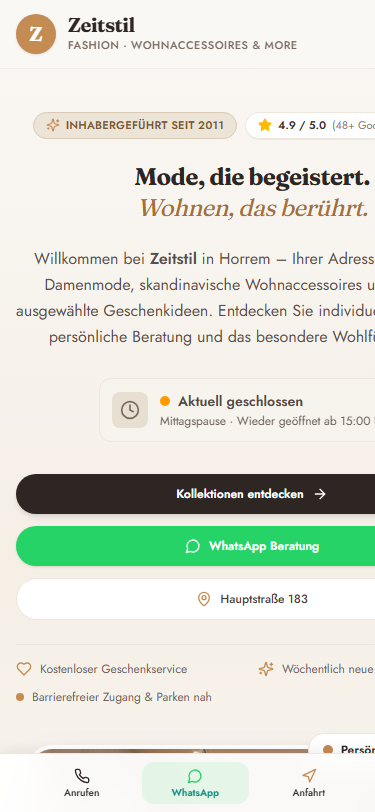
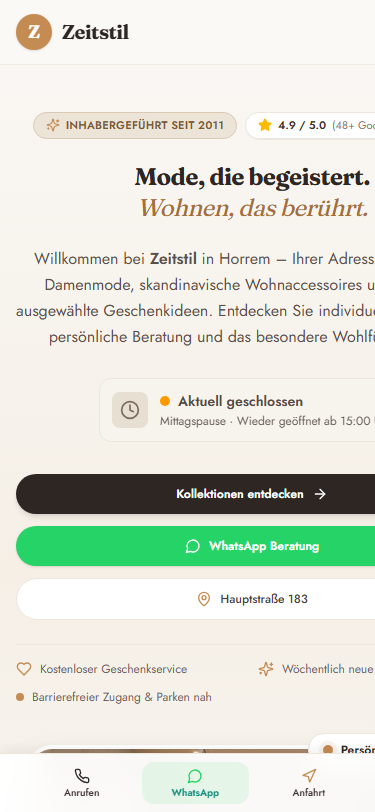
Fix navbar text wrapping and badge overlap on owner portrait

Changed region(s): [[0.0293, 0.0, 0.792, 0.0924]]

diff --git a/src/components/Navbar.tsx b/src/components/Navbar.tsx
@@ -20,11 +20,11 @@ export default function Navbar({ onOpenContact }: NavbarProps) {
 
   const navLinks = [
     { label: 'Kollektionen', href: '#kollektionen' },
-    { label: 'Über Zeitstil', href: '#ueber-uns' },
+    { label: 'Über uns', href: '#ueber-uns' },
     { label: 'Einblicke', href: '#galerie' },
-    { label: 'Kundenstimmen', href: '#bewertungen' },
+    { label: 'Bewertungen', href: '#bewertungen' },
     { label: 'FAQ', href: '#faq' },
-    { label: 'Anfahrt & Zeiten', href: '#kontakt' },
+    { label: 'Kontakt', href: '#kontakt' },
   ];
 
   const handleNavClick = (href: string) => {
@@ -40,35 +40,35 @@ export default function Navbar({ onOpenContact }: NavbarProps) {
       <header
         className={`fixed top-0 left-0 right-0 z-40 transition-all duration-300 ${
           scrolled
-            ? 'bg-[#faf8f5]/95 backdrop-blur-md shadow-sm border-b border-[#ede6dc] py-2.5'
-            : 'bg-[#faf8f5]/80 backdrop-blur-sm py-3.5 border-b border-[#ede6dc]/60'
+            ? 'bg-[#faf8f5]/95 backdrop-blur-md shadow-sm border-b border-[#ede6dc] py-2'
+            : 'bg-[#faf8f5]/90 backdrop-blur-sm py-3 border-b border-[#ede6dc]/70'
         }`}
       >
         <div className="max-w-7xl mx-auto px-4 sm:px-6 lg:px-8">
-          <div className="flex items-center justify-between gap-4">
+          <div className="flex items-center justify-between gap-3 xl:gap-6">
             
-            {/* Brand Logo & Tagline */}
-            <a href="#" className="flex items-center gap-3 group">
-              <div className="w-10 h-10 rounded-full bg-[#c48b52] text-white flex items-center justify-center font-serif text-xl font-bold shadow-sm transition-transform duration-300 group-hover:scale-105">
+            {/* Brand Logo & Name */}
+            <a href="#" className="flex items-center gap-2.5 sm:gap-3 group shrink-0">
+              <div className="w-9 h-9 sm:w-10 sm:h-10 rounded-full bg-[#c48b52] text-white flex items-center justify-center font-serif text-lg sm:text-xl font-bold shadow-sm transition-transform duration-300 group-hover:scale-105 shrink-0">
                 Z
               </div>
               <div className="flex flex-col">
-                <span className="font-serif text-xl sm:text-2xl font-bold tracking-tight text-[#2d2623] leading-none">
+                <span className="font-serif text-xl sm:text-2xl font-bold tracking-tight text-[#2d2623] leading-none whitespace-nowrap">
                   Zeitstil
                 </span>
-                <span className="text-[11px] tracking-wider uppercase text-[#7a6a5e] font-medium mt-0.5">
-                  Fashion · Wohnaccessoires &amp; more
+                <span className="text-[10px] sm:text-[11px] tracking-wider uppercase text-[#7a6a5e] font-medium mt-0.5 whitespace-nowrap hidden sm:inline-block">
+                  Fashion · Wohnen · Geschenke
                 </span>
               </div>
             </a>
 
             {/* Desktop Navigation Links */}
-            <nav className="hidden lg:flex items-center gap-6">
+            <nav className="hidden lg:flex items-center gap-4 xl:gap-6">
               {navLinks.map((link) => (
                 <button
                   key={link.label}
                   onClick={() => handleNavClick(link.href)}
-                  className="text-sm font-medium text-[#5a504a] hover:text-[#c48b52] transition-colors cursor-pointer py-1"
+                  className="text-xs xl:text-sm font-medium text-[#5a504a] hover:text-[#c48b52] transition-colors cursor-pointer py-1 whitespace-nowrap"
                 >
                   {link.label}
                 </button>
@@ -76,31 +76,31 @@ export default function Navbar({ onOpenContact }: NavbarProps) {
             </nav>
 
             {/* Right Status & Action Buttons */}
-            <div className="hidden sm:flex items-center gap-3">
+            <div className="hidden sm:flex items-center gap-2 xl:gap-2.5 shrink-0">
               <OpeningStatus compact />
 
               <a
                 href="https://wa.me/4915222739532?text=Hallo%20Frau%20Dauendorffer,%20ich%20habe%20eine%20Frage%20zu%20einem%20Artikel%20bei%20Zeitstil."
                 target="_blank"
                 rel="noopener noreferrer"
-                className="inline-flex items-center gap-1.5 px-3 py-1.5 rounded-full text-xs font-semibold bg-[#25D366]/10 text-[#128C7E] hover:bg-[#25D366]/20 transition-all border border-[#25D366]/25"
+                className="inline-flex items-center gap-1.5 px-3 py-1.5 rounded-full text-xs font-semibold bg-[#25D366]/10 text-[#128C7E] hover:bg-[#25D366]/20 transition-all border border-[#25D366]/25 whitespace-nowrap"
                 title="Per WhatsApp schreiben"
               >
-                <MessageCircle className="w-3.5 h-3.5" />
+                <MessageCircle className="w-3.5 h-3.5 shrink-0" />
                 <span>WhatsApp</span>
               </a>
 
               <a
                 href="tel:+4922739915676"
-                className="inline-flex items-center gap-1.5 px-3.5 py-1.5 rounded-full text-xs font-medium bg-[#2d2623] text-white hover:bg-[#c48b52] transition-colors shadow-sm"
+                className="inline-flex items-center gap-1.5 px-3.5 py-1.5 rounded-full text-xs font-medium bg-[#2d2623] text-white hover:bg-[#c48b52] transition-colors shadow-2xs whitespace-nowrap"
               >
-                <Phone className="w-3.5 h-3.5" />
+                <Phone className="w-3.5 h-3.5 shrink-0" />
                 <span>02273 9915676</span>
               </a>
             </div>
 
             {/* Mobile Hamburger Toggle */}
-            <div className="flex items-center gap-2 lg:hidden">
+            <div className="flex items-center gap-1.5 lg:hidden">
               <a
                 href="tel:+4922739915676"
                 className="p-2 rounded-full bg-[#f0eae1] text-[#2d2623] hover:text-[#c48b52] transition-colors"
@@ -196,7 +196,7 @@ export default function Navbar({ onOpenContact }: NavbarProps) {
               <button
                 onClick={() => {
                   setMobileMenuOpen(false);
-                  onOpenContact();
+                  onOpenContact('Allgemeine Frage');
                 }}
                 className="w-full py-2 text-xs text-center text-[#7a6a5e] underline underline-offset-2"
               >

diff --git a/src/components/OpeningStatus.tsx b/src/components/OpeningStatus.tsx
@@ -5,6 +5,7 @@ interface OpeningStatusInfo {
   isOpen: boolean;
   message: string;
   nextOpeningText: string;
+  compactText: string;
 }
 
 export function getOpeningStatus(): OpeningStatusInfo {
@@ -21,46 +22,59 @@ export function getOpeningStatus(): OpeningStatusInfo {
   let isOpen = false;
   let message = 'Aktuell geschlossen';
   let nextOpeningText = '';
+  let compactText = 'Geschlossen';
 
   if (day === 1) { // Montag
     if (currentMinutes >= 900 && currentMinutes < 1080) {
       isOpen = true;
       message = 'Jetzt geöffnet · bis 18:00 Uhr';
+      compactText = 'Geöffnet bis 18:00';
     } else if (currentMinutes < 900) {
       nextOpeningText = 'Öffnet heute um 15:00 Uhr';
+      compactText = 'Öffnet 15:00 Uhr';
     } else {
       nextOpeningText = 'Öffnet Di. um 10:00 Uhr';
+      compactText = 'Öffnet Di. 10:00';
     }
   } else if (day === 2 || day === 4 || day === 5) { // Di, Do, Fr
     if (currentMinutes >= 600 && currentMinutes < 780) {
       isOpen = true;
       message = 'Jetzt geöffnet · bis 13:00 Uhr (wieder ab 15:00)';
+      compactText = 'Geöffnet bis 13:00';
     } else if (currentMinutes >= 780 && currentMinutes < 900) {
       nextOpeningText = 'Mittagspause · Wieder geöffnet ab 15:00 Uhr';
+      compactText = 'Pause · öffnet 15:00';
     } else if (currentMinutes >= 900 && currentMinutes < 1080) {
       isOpen = true;
       message = 'Jetzt geöffnet · bis 18:00 Uhr';
+      compactText = 'Geöffnet bis 18:00';
     } else if (currentMinutes < 600) {
       nextOpeningText = 'Öffnet heute um 10:00 Uhr';
+      compactText = 'Öffnet 10:00 Uhr';
     } else {
       const nextDayName = day === 5 ? 'Sa.' : (day === 2 ? 'Mi.' : 'Fr.');
       nextOpeningText = `Öffnet ${nextDayName} um 10:00 Uhr`;
+      compactText = `Öffnet ${nextDayName} 10:00`;
     }
   } else if (day === 3 || day === 6) { // Mi, Sa
     if (currentMinutes >= 600 && currentMinutes < 780) {
       isOpen = true;
       message = 'Jetzt geöffnet · bis 13:00 Uhr';
+      compactText = 'Geöffnet bis 13:00';
     } else if (currentMinutes < 600) {
       nextOpeningText = 'Öffnet heute um 10:00 Uhr';
+      compactText = 'Öffnet 10:00 Uhr';
     } else {
-      const nextDayName = day === 3 ? 'Do. um 10:00 Uhr' : 'Mo. um 15:00 Uhr';
-      nextOpeningText = `Öffnet ${nextDayName}`;
+      const nextDayName = day === 3 ? 'Do. 10:00' : 'Mo. 15:00';
+      nextOpeningText = day === 3 ? 'Öffnet Do. um 10:00 Uhr' : 'Öffnet Mo. um 15:00 Uhr';
+      compactText = `Öffnet ${nextDayName}`;
     }
   } else { // Sonntag
     nextOpeningText = 'Öffnet Mo. um 15:00 Uhr';
+    compactText = 'Öffnet Mo. 15:00';
   }
 
-  return { isOpen, message, nextOpeningText };
+  return { isOpen, message, nextOpeningText, compactText };
 }
 
 export default function OpeningStatus({ compact = false }: { compact?: boolean }) {
@@ -75,8 +89,8 @@ export default function OpeningStatus({ compact = false }: { compact?: boolean }
 
   if (compact) {
     return (
-      <div className="inline-flex items-center gap-2 px-3 py-1 rounded-full text-xs font-medium border bg-white/80 backdrop-blur-sm border-[#ede6dc] shadow-sm">
-        <span className="relative flex h-2 w-2">
+      <div className="inline-flex items-center gap-2 px-3 py-1.5 rounded-full text-xs font-medium border bg-white/90 backdrop-blur-sm border-[#ede6dc] shadow-2xs whitespace-nowrap shrink-0">
+        <span className="relative flex h-2 w-2 shrink-0">
           {status.isOpen ? (
             <>
               <span className="animate-ping absolute inline-flex h-full w-full rounded-full bg-emerald-400 opacity-75"></span>
@@ -86,8 +100,8 @@ export default function OpeningStatus({ compact = false }: { compact?: boolean }
             <span className="relative inline-flex rounded-full h-2 w-2 bg-amber-500"></span>
           )}
         </span>
-        <span className={status.isOpen ? 'text-emerald-800' : 'text-[#6e645e]'}>
-          {status.isOpen ? status.message : (status.nextOpeningText || 'Aktuell geschlossen')}
+        <span className={`whitespace-nowrap ${status.isOpen ? 'text-emerald-800 font-semibold' : 'text-[#5e534d]'}`}>
+          {status.compactText}
         </span>
       </div>
     );
@@ -99,12 +113,12 @@ export default function OpeningStatus({ compact = false }: { compact?: boolean }
         ? 'bg-emerald-50/70 border-emerald-200/80 text-emerald-900' 
         : 'bg-[#f7f3ed] border-[#ede6dc] text-[#554a44]'
     }`}>
-      <div className={`p-2 rounded-lg ${status.isOpen ? 'bg-emerald-100 text-emerald-700' : 'bg-[#e8dfd3] text-[#7a6a5e]'}`}>
+      <div className={`p-2 rounded-lg shrink-0 ${status.isOpen ? 'bg-emerald-100 text-emerald-700' : 'bg-[#e8dfd3] text-[#7a6a5e]'}`}>
         <Clock className="w-5 h-5" />
       </div>
       <div>
         <div className="flex items-center gap-2">
-          <span className={`inline-block w-2.5 h-2.5 rounded-full ${status.isOpen ? 'bg-emerald-500 animate-pulse' : 'bg-amber-500'}`} />
+          <span className={`inline-block w-2.5 h-2.5 rounded-full shrink-0 ${status.isOpen ? 'bg-emerald-500 animate-pulse' : 'bg-amber-500'}`} />
           <p className="font-semibold text-sm">
             {status.isOpen ? 'Heute geöffnet' : 'Aktuell geschlossen'}
           </p>

diff --git a/src/components/BoutiqueExperience.tsx b/src/components/BoutiqueExperience.tsx
@@ -24,23 +24,23 @@ export default function BoutiqueExperience({ onOpenContact }: BoutiqueExperience
                   className="w-full h-full object-cover"
                   loading="lazy"
                 />
-                <div className="absolute inset-0 bg-gradient-to-t from-black/60 via-transparent to-transparent opacity-80" />
+                <div className="absolute inset-0 bg-gradient-to-t from-black/85 via-black/30 to-transparent" />
                 
-                <div className="absolute bottom-5 left-5 right-5 text-white">
-                  <span className="text-xs font-semibold uppercase tracking-wider text-[#f5d5b0]">
+                <div className="absolute bottom-6 left-6 right-6 text-white z-10">
+                  <span className="text-xs font-semibold uppercase tracking-wider text-[#f5d5b0] block mb-1">
                     Inhaberin &amp; Gründerin
                   </span>
-                  <h4 className="font-serif text-xl sm:text-2xl font-bold mt-0.5">
+                  <h4 className="font-serif text-2xl sm:text-3xl font-bold leading-tight">
                     Ana Emese „Emi“ Dauendorffer
                   </h4>
-                  <p className="text-xs text-white/85 mt-1 font-sans">
+                  <p className="text-xs sm:text-sm text-white/90 mt-1.5 font-sans leading-relaxed">
                     „Mode und Schönes fürs Zuhause sind eine Herzensangelegenheit.“
                   </p>
                 </div>
               </div>
 
-              {/* Decorative Experience Badge */}
-              <div className="absolute -bottom-4 -left-4 sm:-bottom-5 sm:-left-5 bg-white p-4 rounded-2xl shadow-lg border border-[#ede6dc] max-w-[210px]">
+              {/* Decorative Experience Badge placed at top-right without covering text */}
+              <div className="absolute -top-3 -right-3 sm:-top-4 sm:-right-4 bg-white p-3.5 sm:p-4 rounded-2xl shadow-xl border border-[#ede6dc] max-w-[210px] z-20">
                 <div className="flex items-center gap-2 mb-1">
                   <Heart className="w-4 h-4 text-[#c48b52] fill-[#c48b52]" />
                   <span className="text-xs font-bold text-[#2d2623]">Inhabergeführt</span>
